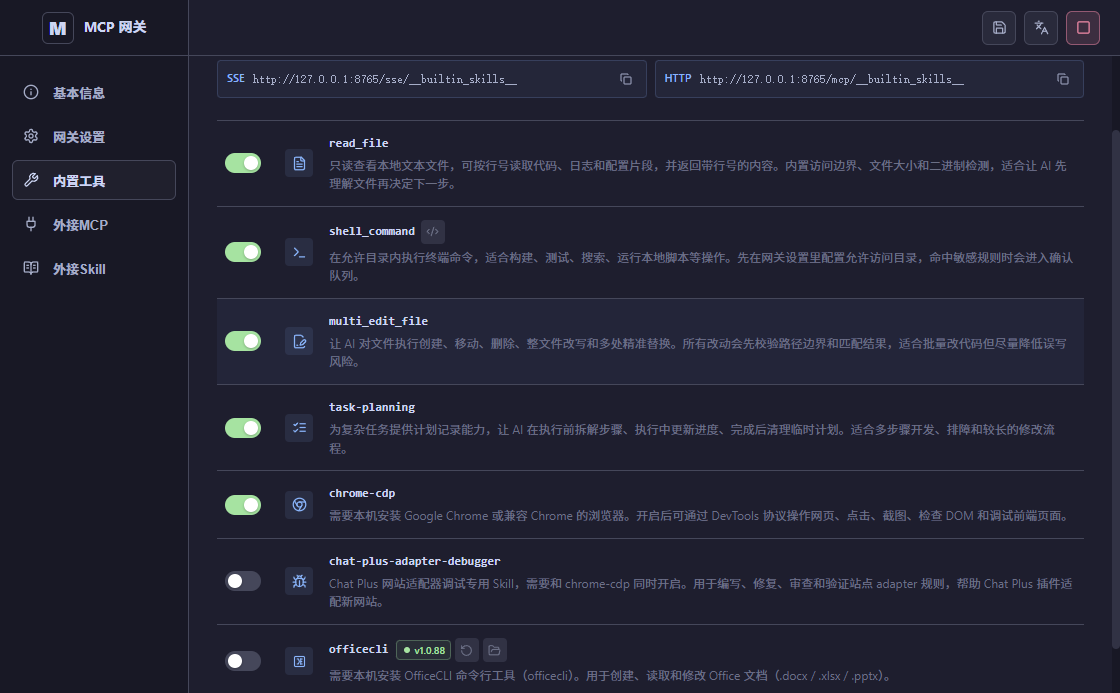
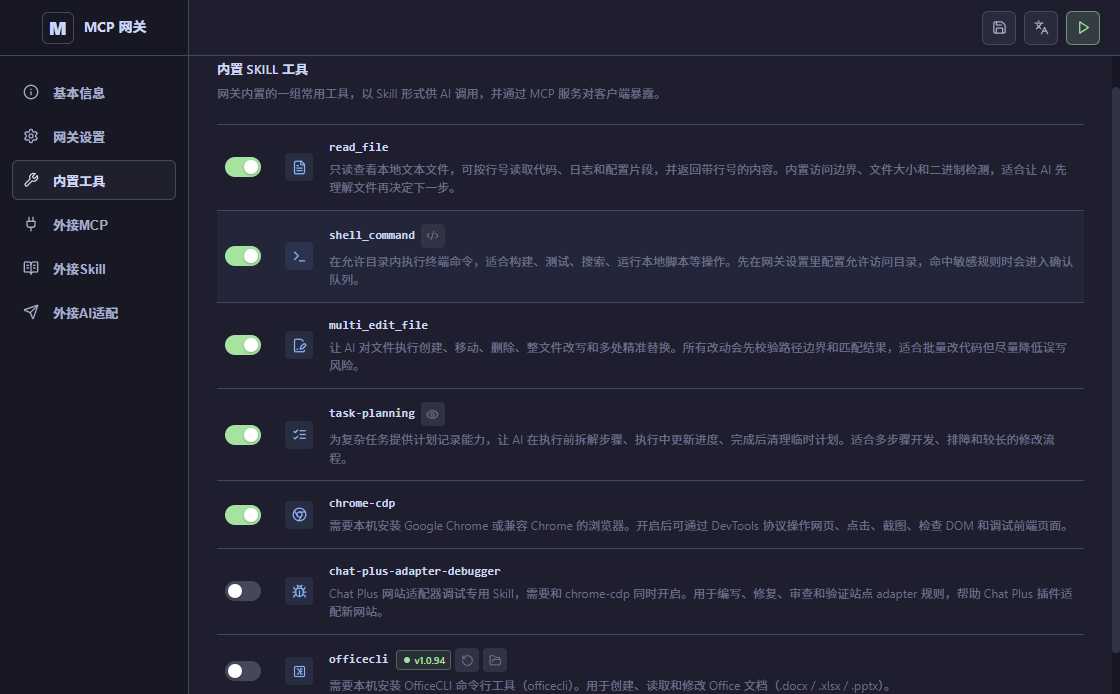
chore: bump version to 0.1.7 and update README screenshots
- Bump version from 0.1.6 to 0.1.7 across all crates and UI packages
- Add AI Adapter Interface screenshot to English and Chinese READMEs
- Update existing screenshots (image1.png, image2.png)
- Remove redundant per-crate README files

diff --git a/README.md b/README.md
@@ -104,6 +104,8 @@ This makes it possible to build agent-like workflows on top of normal MCP client
 
 ## AI Adapter (BYOK)
 
+![AI Adapter Interface](./image3.png)
+
 The AI Adapter accepts incoming connections from AI coding tools that support custom API endpoints (OpenAI or Anthropic protocol). When a tool connects, it sends its tool definitions in the request. The gateway extracts those tools, registers them as MCP tools, and exposes them through a dedicated MCP endpoint — so MCP clients can call the tools that the AI tool declared.
 
 How it works:

diff --git a/README.zh.md b/README.zh.md
@@ -103,6 +103,7 @@ http://127.0.0.1:8765/api/v2/sse/playwright
 这些能力可以让普通 MCP 客户端具备更接近智能体的工作流：查看项目、读取文档、修改代码、执行命令、验证结果、操作浏览器，并且所有调用仍然走标准 MCP 接口。
 
 ## AI 外接适配器（BYOK）
+![AI 外接适配器界面](./image3.png)
 
 AI 外接适配器接收来自支持自定义 API 端点的 AI 编程工具（OpenAI 或 Anthropic 协议）的连接。AI 工具接入时会在请求中携带自己的工具定义，网关提取这些工具，注册为 MCP 工具，并通过专用 MCP 端点暴露出去——这样 MCP 客户端就能调用 AI 工具所声明的那些工具。
 